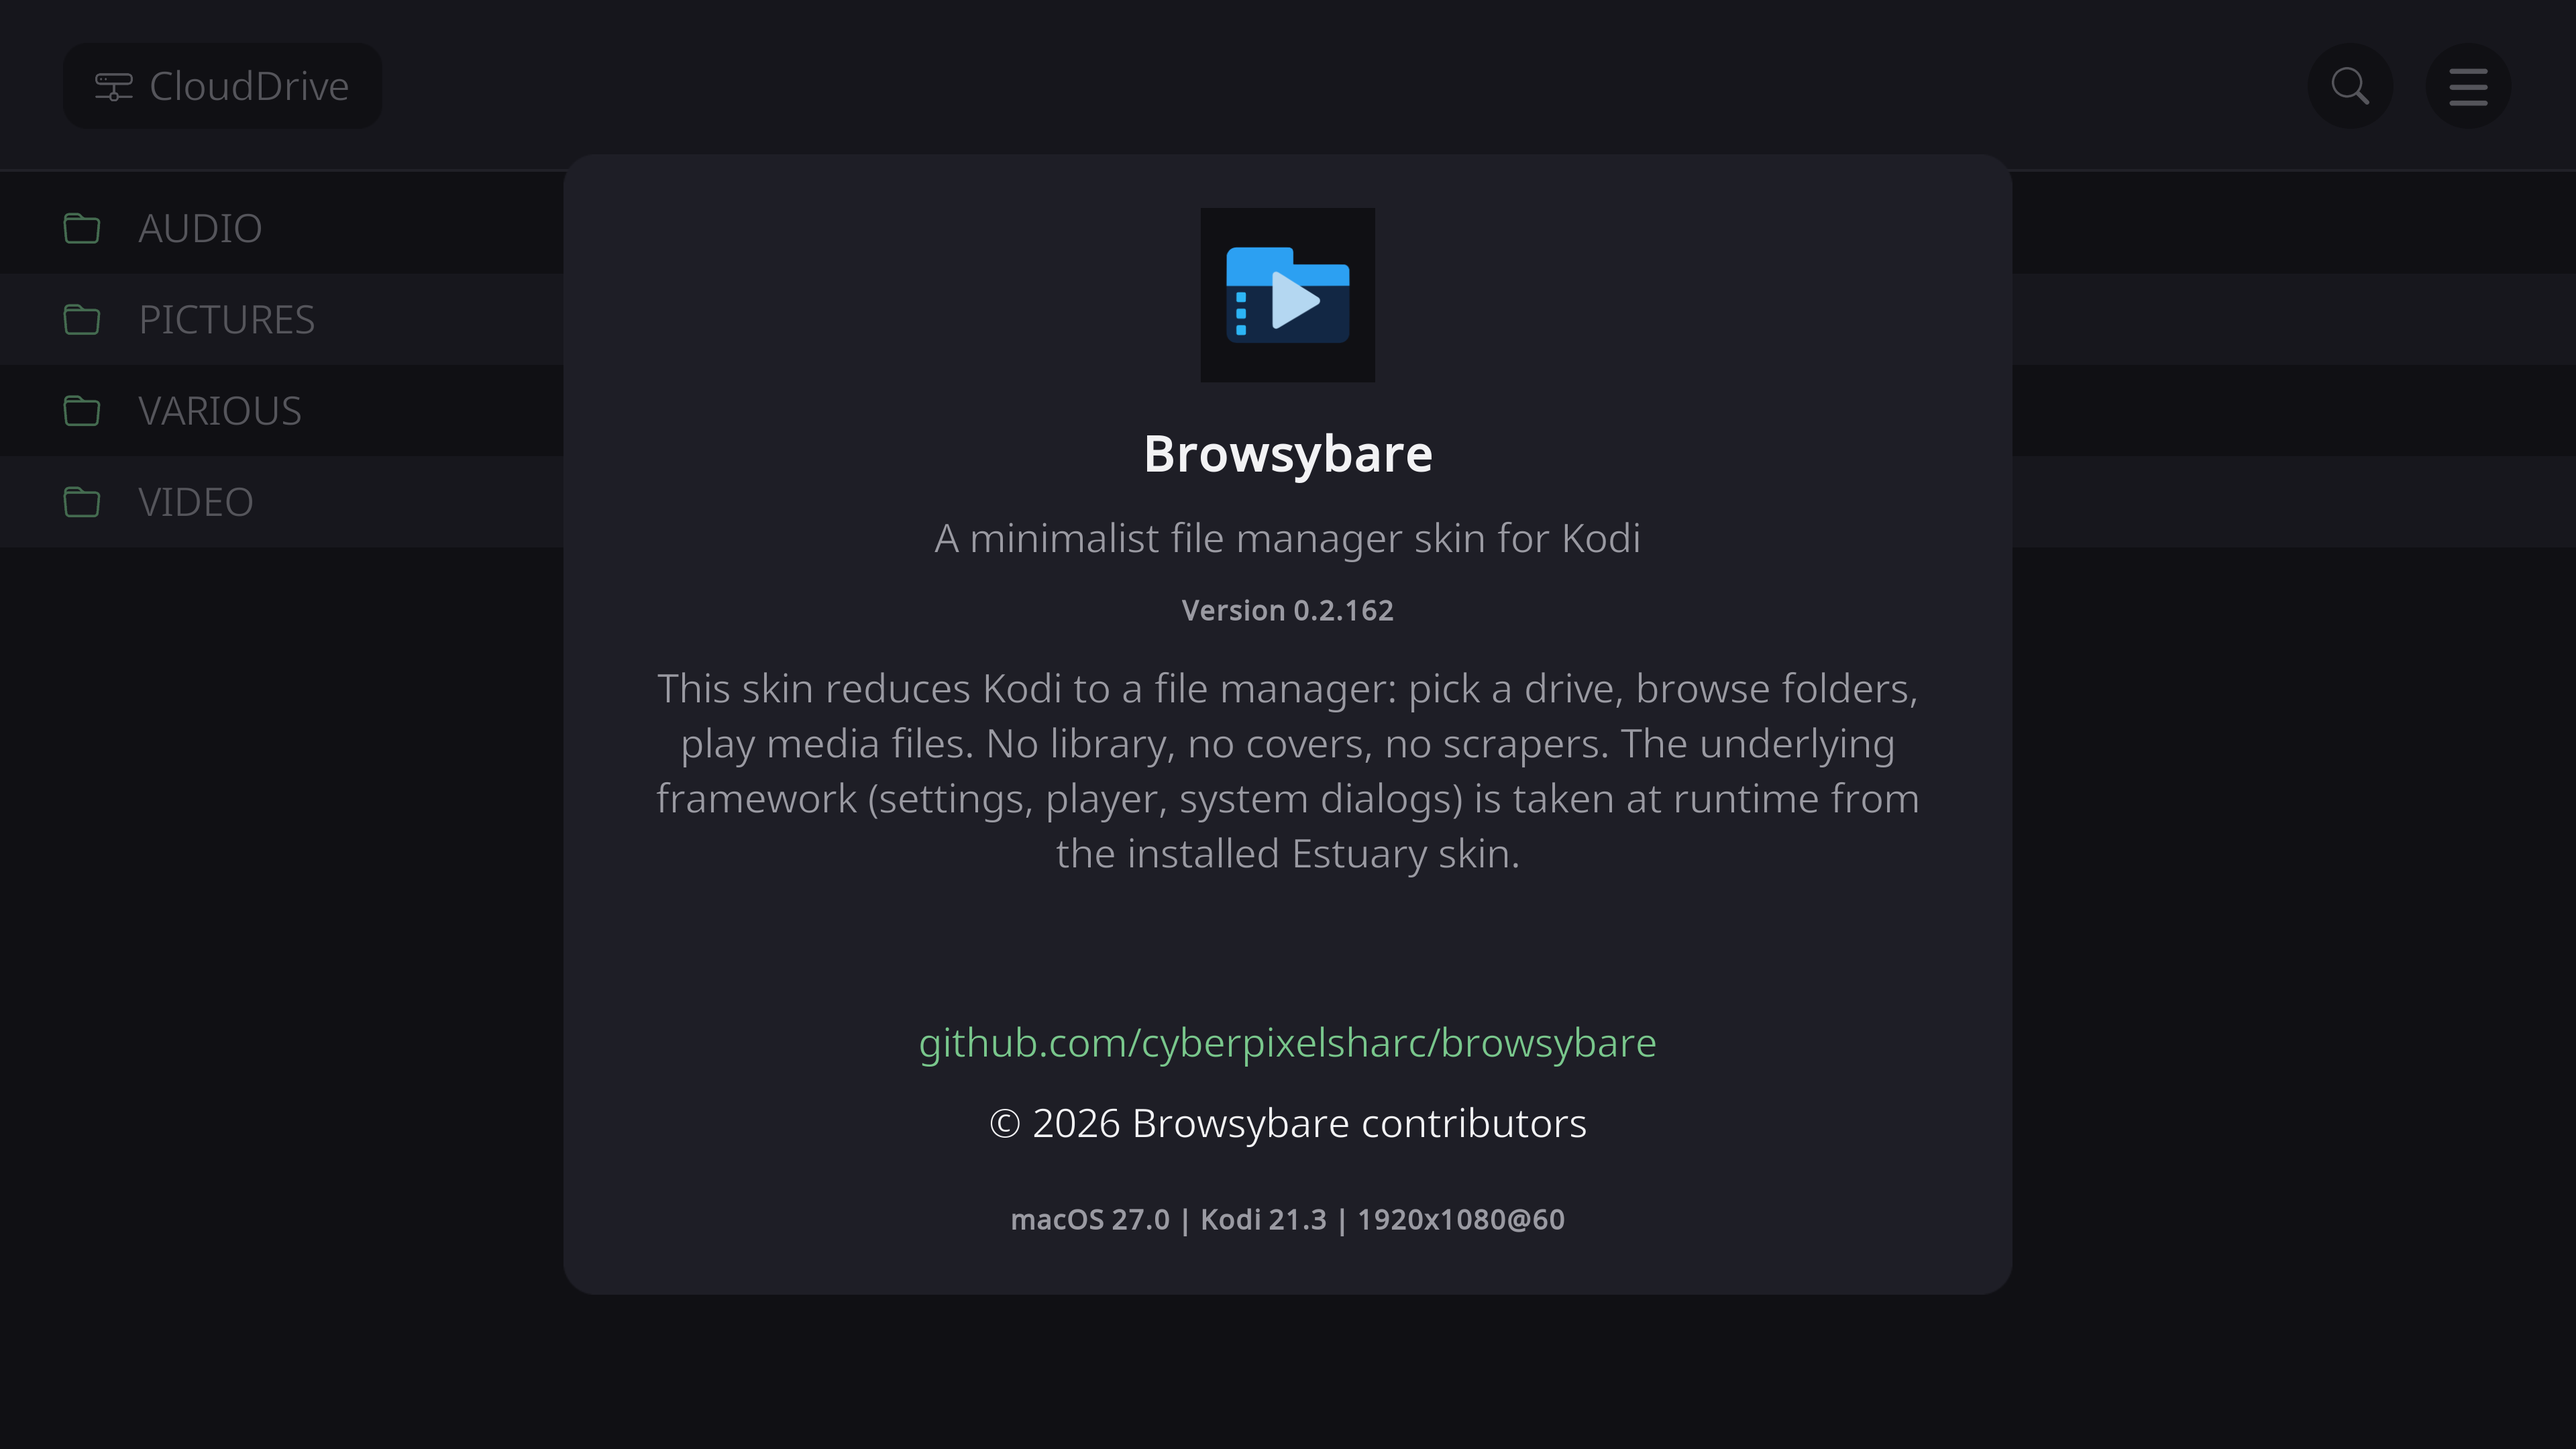
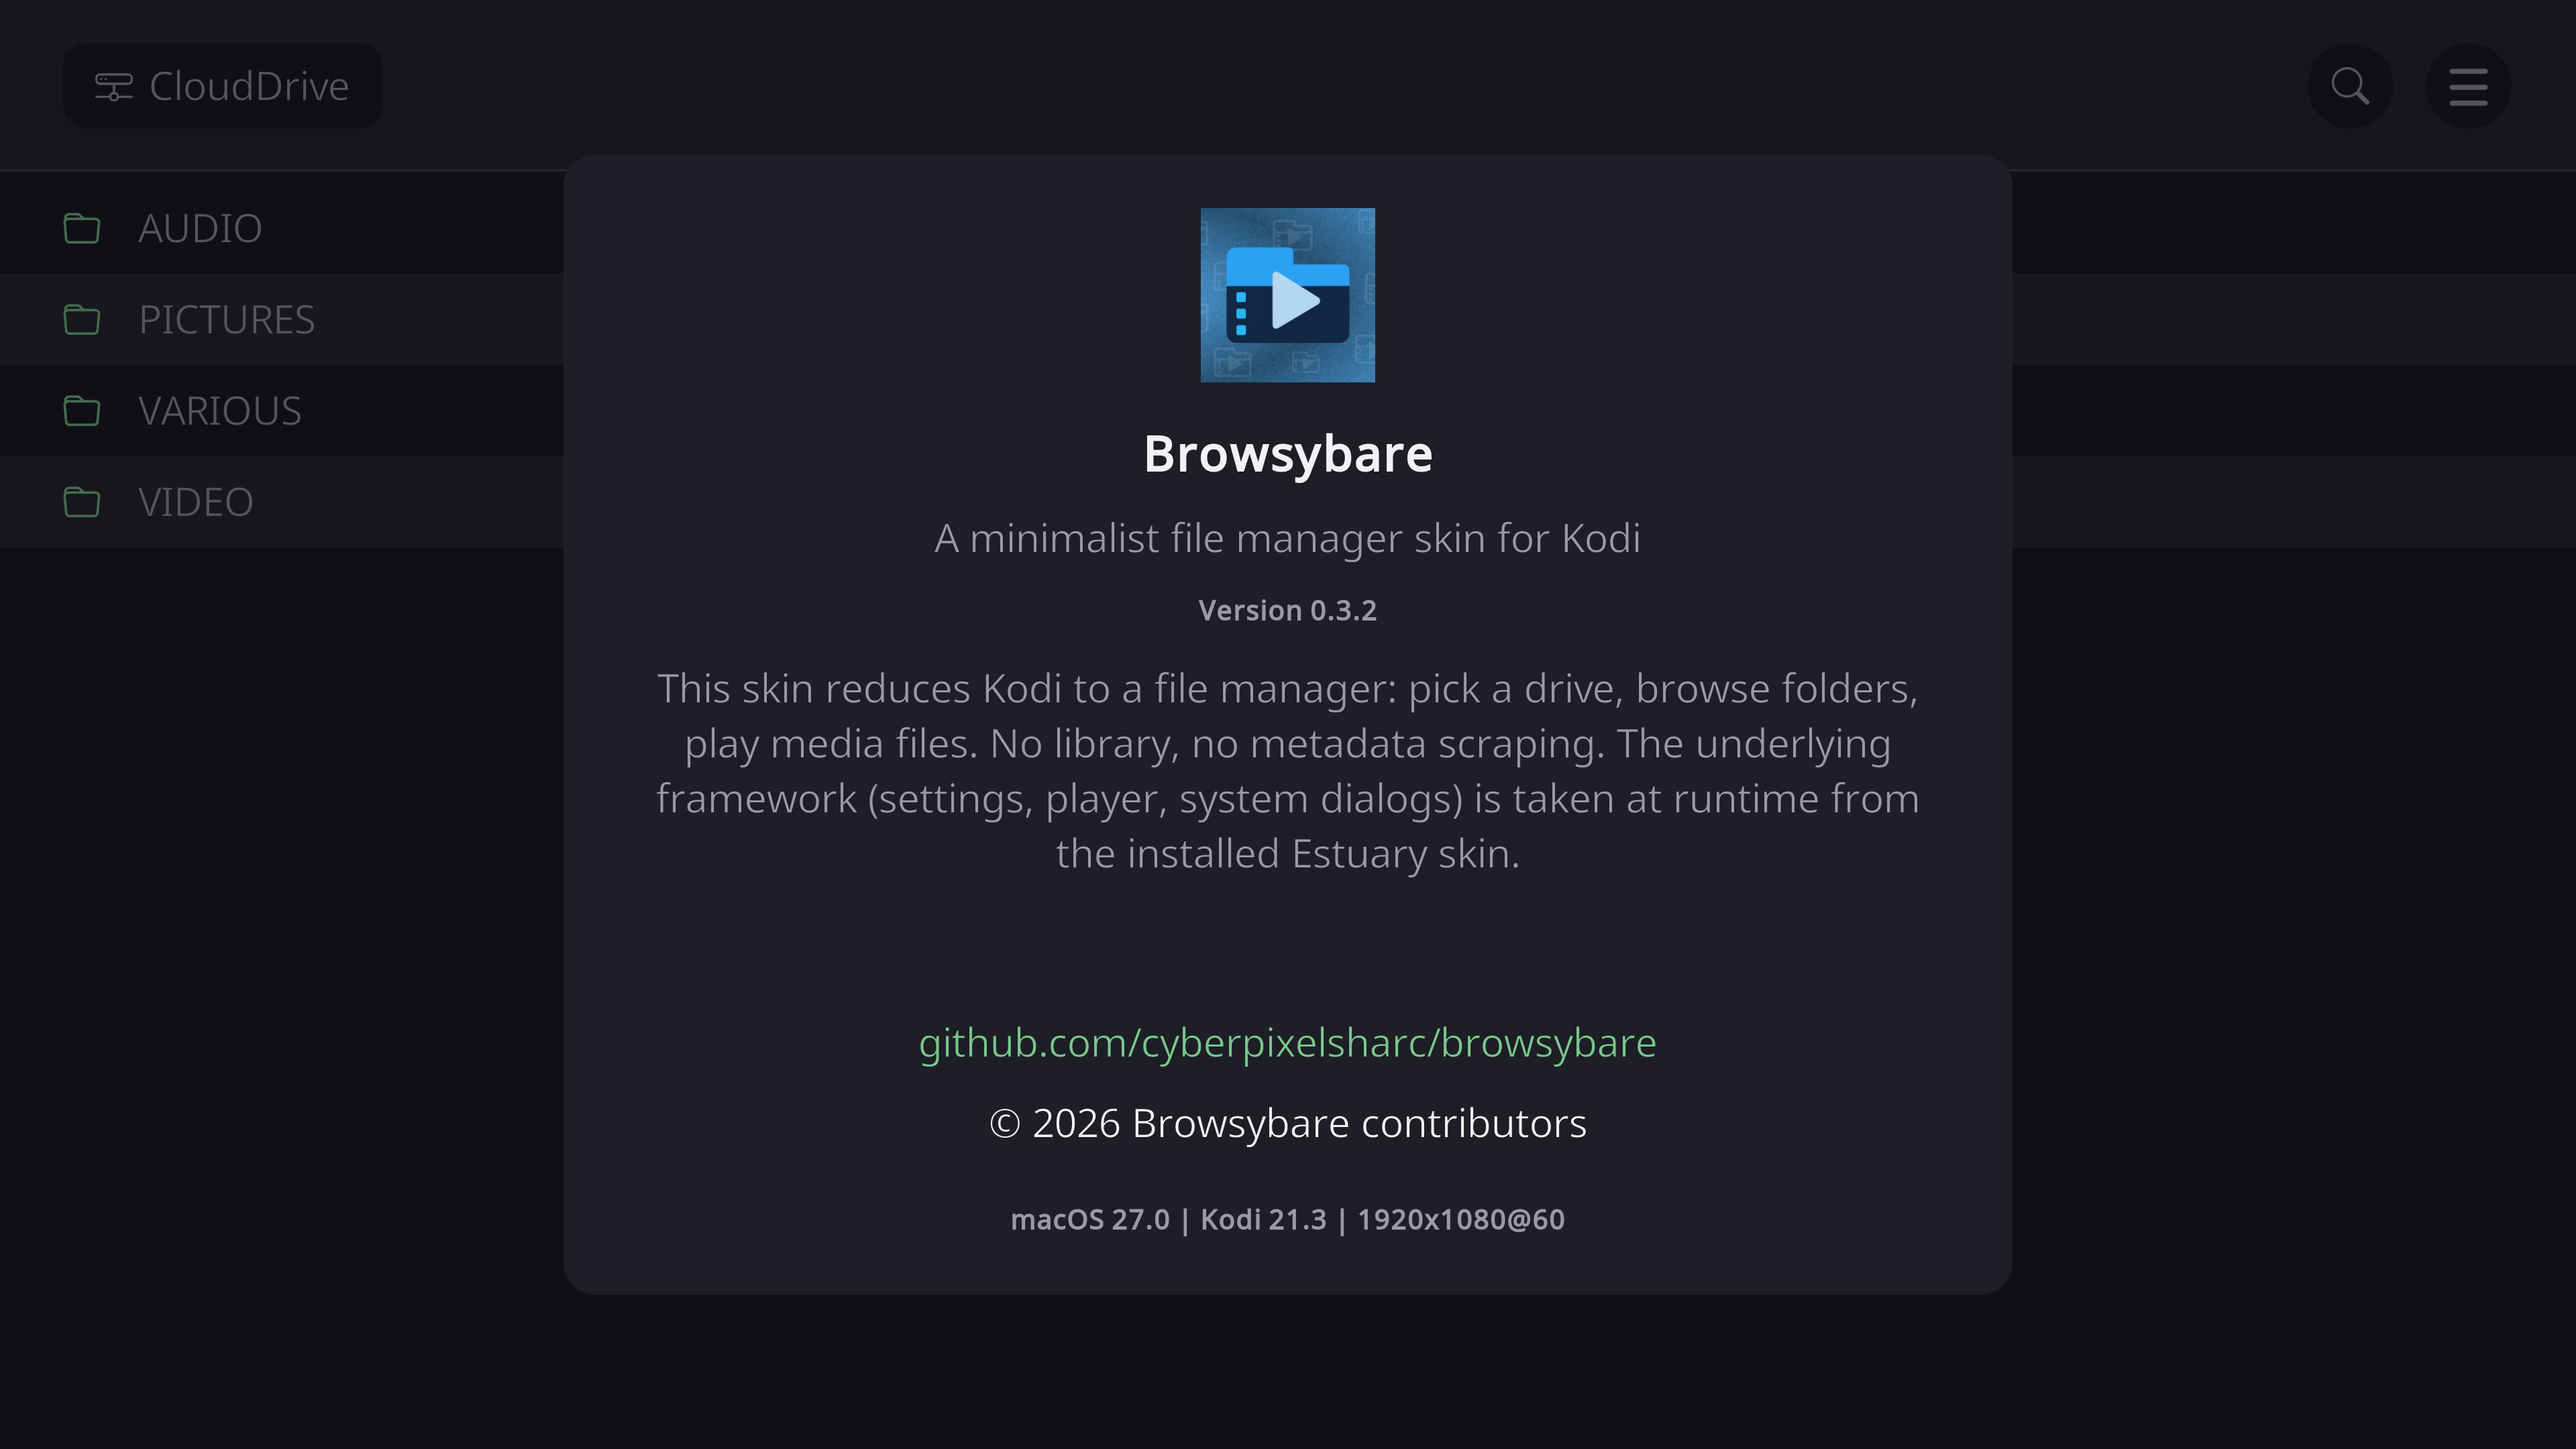
Browsybare 0.3.5

Changed region(s): [[0.25, 0.4963, 0.75, 0.5273], [0.4688, 0.1241, 0.5312, 0.2792], [0.4688, 0.4032, 0.5312, 0.4343]]

diff --git a/scripts/sync.py b/scripts/sync.py
@@ -21,11 +21,12 @@ import remotes
 
 # ---------------------------------------------------------------- sync
 
-# Top-level locations Estuary must never clobber
+# Top-level locations Estuary must never clobber. changelog.txt is blocked
+# although we ship none, so the manager shows no foreign changelog.
 PROTECTED_DIRS = {"scripts", "docs", "dev", "changelogs"}
 PROTECTED_FILES = {
     "addon.xml", "icon.png", "fanart.jpg",
-    "README.md", "LICENSE",
+    "changelog.txt", "README.md", "LICENSE",
 }
 # Bootstrap stubs that must be Estuary originals after a sync (a zip update
 # can re-overwrite them while the marker still says up to date).
@@ -96,7 +97,7 @@ def estuary_version(est):
     try:
         with open(os.path.join(est, "addon.xml"), "r", encoding="utf-8") as f:
             head = f.read(2000)
-        m = re.search(r'<addon[^>]*\bversion="([^"]+)"', head)
+        m = re.search(r'<addon[^>]*?\sversion="([^"]+)"', head)
         if m:
             return m.group(1)
     except Exception:
@@ -664,7 +665,7 @@ def skin_version(root=None):
     try:
         with open(os.path.join(root or skin_root(), "addon.xml"), "r", encoding="utf-8") as f:
             head = f.read(2000)
-        m = re.search(r'<addon[^>]*\bversion="([^"]+)"', head)
+        m = re.search(r'<addon[^>]*?\sversion="([^"]+)"', head)
         if m:
             return m.group(1)
     except Exception:
@@ -892,7 +893,7 @@ def branding():
     try:
         with open(os.path.join(skin_root(), "addon.xml"), encoding="utf-8") as f:
             xml = f.read()
-        m = re.search(r'<addon[^>]*\bversion="([^"]+)"', xml)
+        m = re.search(r'<addon[^>]*?\sversion="([^"]+)"', xml)
         if m:
             version = m.group(1)
         summaries = dict(re.findall(r'<summary\s+lang="([^"]+)">(.*?)</summary>', xml, re.S))
@@ -919,14 +920,11 @@ def branding():
             description = descriptions[cands[0]]
     except Exception:
         pass
-    data = read_json(os.path.join(skin_root(), "data", "branding.json"), {})
     win = xbmcgui.Window(10000)
     win.setProperty("bp.name", skin_name())
     win.setProperty("bp.version", version)
     win.setProperty("bp.summary", summary)
     win.setProperty("bp.description", description)
-    win.setProperty("bp.website", data.get("website", ""))
-    win.setProperty("bp.copyright", data.get("copyright", ""))
     # About footer: OS + refresh rate as properties.
     win.setProperty("bp.sys.os", sys_os_line())
     win.setProperty("bp.sys.hz", sys_refresh_rate())

diff --git a/scripts/main.py b/scripts/main.py
@@ -2441,6 +2441,23 @@ def keysopen():
     log("keys modal open")
 
 
+def openlink():
+    """Open the project page in the system browser (About modal link)."""
+    import webbrowser
+    try:
+        if webbrowser.open("https://github.com/cyberpixelsharc/browsybare"):
+            return
+    except Exception:
+        pass
+    try:
+        xbmcgui.Dialog().notification(
+            xbmc.getLocalizedString(31448) or "Browsybare",
+            xbmc.getLocalizedString(31521),
+            xbmcgui.NOTIFICATION_WARNING, 4000)
+    except Exception:
+        pass
+
+
 def _video_player_id():
     """Active video player id via JSON-RPC, or None."""
     try:
@@ -2872,6 +2889,8 @@ if __name__ == "__main__":
             infoopen()
         elif cmd == "keysopen":
             keysopen()
+        elif cmd == "openlink":
+            openlink()
         elif cmd == "infoclose":
             infoclose()
         elif cmd == "trackselect":

diff --git a/scripts/boot.py b/scripts/boot.py
@@ -120,7 +120,7 @@ def _addon_id():
     try:
         with open(os.path.join(skin_root(), "addon.xml"), "r", encoding="utf-8") as f:
             head = f.read(2000)
-        m = re.search(r'<addon[^>]*\bid="([^"]+)"', head)
+        m = re.search(r'<addon[^>]*?\sid="([^"]+)"', head)
         return m.group(1) if m else ""
     except Exception:
         return ""

diff --git a/scripts/common.py b/scripts/common.py
@@ -71,7 +71,7 @@ def skin_name():
     try:
         with open(os.path.join(skin_root(), "addon.xml"), "r", encoding="utf-8") as f:
             head = f.read(2000)
-        m = re.search(r'<addon[^>]*\bname="([^"]+)"', head)
+        m = re.search(r'<addon[^>]*?\sname="([^"]+)"', head)
         if m:
             return m.group(1)
     except Exception:

diff --git a/README.md b/README.md
@@ -2,7 +2,7 @@
 
 Minimalist Kodi skin: one interface = file manager. No library, no metadata scraping.
 
-Pick a drive, browse folders, play files. Audio plays in a footer overlay, video fullscreen with its own OSD, photos in a dedicated fullscreen viewer. Everything else (Kodi's system settings, the player core, system dialogs) is taken at runtime from the installed Estuary skin as the base layer.
+Pick a source, browse folders, play files. Audio plays in a footer overlay, video fullscreen with its own OSD, photos in a dedicated fullscreen viewer. Everything else (Kodi's system settings, the player core, system dialogs) is taken at runtime from the installed Estuary skin as the base layer.
 
 ## Screenshots
 

diff --git a/changelogs/0.3.1.md b/changelogs/0.3.1.md
@@ -1,0 +1,5 @@
+# 0.3.1 (2026-09-24, field-test build)
+- Confirm dialog: the skin-switch question always uses our dark panel now (no longer replaced by Estuary's), with visible focused buttons on first install
+- Fixed: hamburger menu and About modal showed the author name instead of Browsybare (the addon parser matched provider-name)
+- Addon metadata: author cyberpixelsharc, fanart listed
+- About website/copyright are fixed labels now (branding.json removed); code comments trimmed to the minimum, docs reflowed

diff --git a/changelogs/0.3.2.md b/changelogs/0.3.2.md
@@ -1,0 +1,4 @@
+# 0.3.2 (2026-09-24, field-test build)
+- Fixed: fresh installs showed "Fehler" twice in the settings window (bootstrap stub placeholder); stub labels are empty now
+- New icon and fanart artwork (blue folder-play motif)
+- XML comments trimmed to trap notes, hard wraps reflowed (no behavior change)

diff --git a/changelogs/0.3.5.md b/changelogs/0.3.5.md
@@ -1,0 +1,3 @@
+# 0.3.5 (2026-09-24, release)
+- Description wording: "source" instead of "drive" (EN/DE/FR/ES) to cover local drives, directory and network sources alike
+- Includes the 0.3.1-0.3.4 field-test work: clickable About link, addon-manager screenshots, new icon/fanart, confirm-dialog and skin-name fixes

diff --git a/changelogs/0.3.3.md b/changelogs/0.3.3.md
@@ -1,0 +1,3 @@
+# 0.3.3 (2026-09-24, field-test build)
+- About website link is clickable now (opens the project page in the system browser; warning toast where no browser exists)
+- German addon summary reworded; release checklist section A done

diff --git a/changelogs/0.3.4.md b/changelogs/0.3.4.md
@@ -1,0 +1,3 @@
+# 0.3.4 (2026-09-24, field-test build)
+- Addon manager shows three screenshots now (file manager, video, photo)
+- Fixed: the "latest changes" dialog showed Estuary's changelog (we ship none, its copy is blocked)
